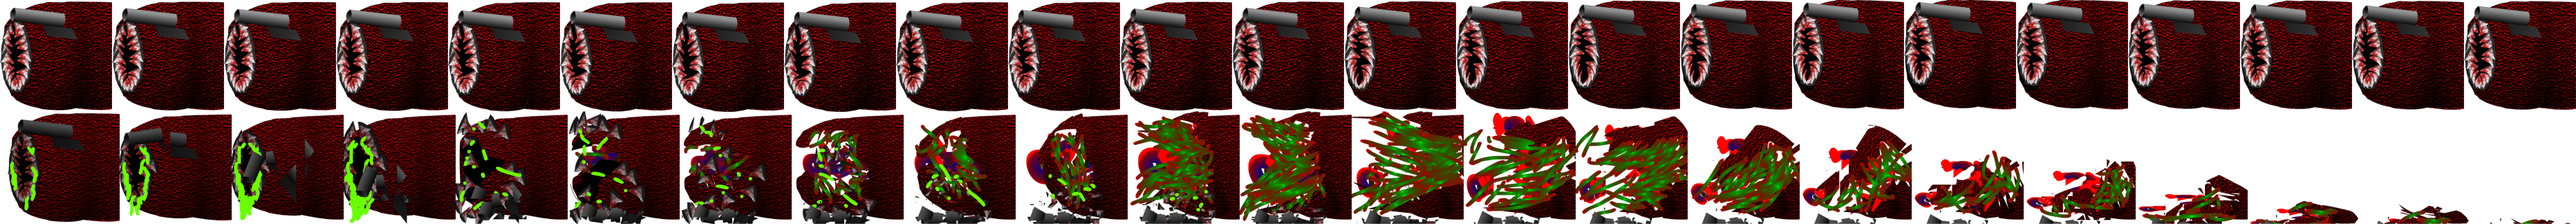
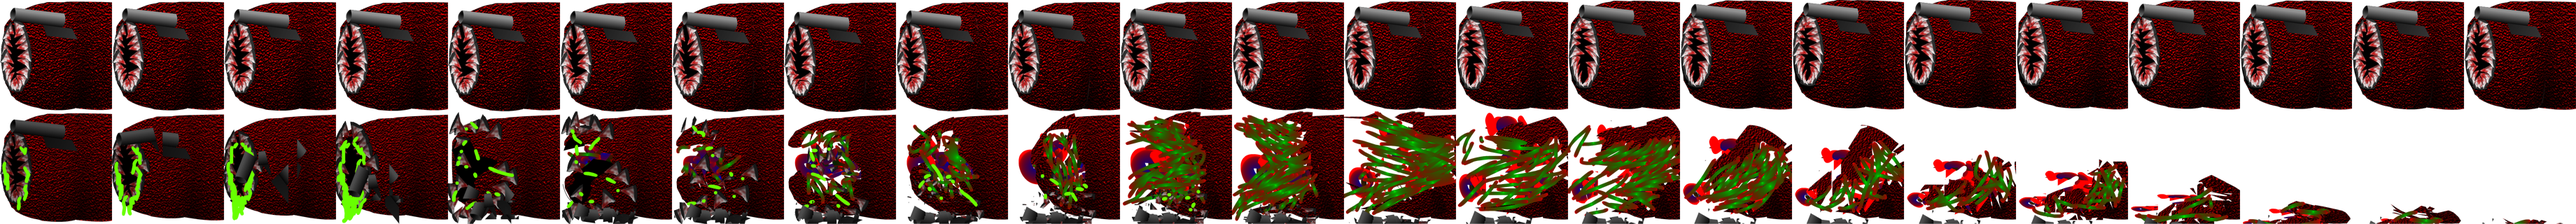
GAME IS DONE

Changed region(s): [[0.0, 0.5, 1.0, 1.0]]

diff --git a/MagnetBoy/MagnetBoy/MagnetBoy/Boss.cs b/MagnetBoy/MagnetBoy/MagnetBoy/Boss.cs
@@ -30,6 +30,8 @@ namespace MagnetBoy
         private double interval = 500;
         private double timeSinceLastShot = 0.0;
 
+        private double deathTimer = 0.0;
+
         public int bossHealth = 0;
 
         public Boss()
@@ -57,102 +59,128 @@ namespace MagnetBoy
 
             pole = Polarity.Neutral;
 
-            bossHealth = 15;
+            bossHealth = 1;
 
             solid = true;
+
+            deathTimer = 0.0;
         }
 
         public override void update(GameTime currentTime)
         {
             timeSinceLastShot += currentTime.ElapsedGameTime.Milliseconds;
 
-            if (timeSinceLastShot > interval)
+            if (deathAnimation == true)
             {
-                float direction = 0.0f;
-
-                direction += (float)(-0.75 * Math.PI);
-
-                Vector2 bulletPosition = Position;
-
-                bulletPosition.Y += 4;
-
-                if (Game1.gameRandom.Next() % 7 == 0)
+                if (deathAnimationSet == false)
                 {
-                    BulletPool.pushBullet(Heart, bulletPosition.X, bulletPosition.Y, currentTime, direction);
+                    lastFrameIncrement = 0.0;
+                    currentFrame = 0;
+                    currentAnimation = "wopleyDie";
+                    deathAnimationSet = true;
                 }
 
-                if (Game1.gameRandom.Next() % 6 == 0)
+                if (deathTimer > 500)
                 {
-                    BulletPool.pushBullet(Brain, bulletPosition.X, bulletPosition.Y, currentTime, direction);
+                    removeFromGame = true;
+                    deathAnimationSet = false;
+                    deathTimer = 0.0f;
                 }
-
-                if (Game1.gameRandom.Next() % 8 == 0)
+                else
                 {
-                    BulletPool.pushBullet(Lung, bulletPosition.X, bulletPosition.Y, currentTime, direction);
+                    deathTimer += currentTime.ElapsedGameTime.Milliseconds;
                 }
-
-                if (Game1.gameRandom.Next() % 15 == 0)
-                {
-                    BulletPool.pushBullet(healthItem, bulletPosition.X, bulletPosition.Y, currentTime, direction);
-                }
-
-                timeSinceLastShot = 0;
             }
-
-            foreach (Entity en in Entity.globalEntityList)
+            else
             {
-                if (en is Player)
+                if (timeSinceLastShot > interval)
                 {
-                    if (hitTest(en))
+                    float direction = 0.0f;
+
+                    direction += (float)(-0.75 * Math.PI);
+
+                    Vector2 bulletPosition = Position;
+
+                    bulletPosition.Y += 4;
+
+                    if (Game1.gameRandom.Next() % 7 == 0)
                     {
-                        if (!(!en.onTheGround && en.velocity.Y > 0.001f && en.Position.Y < vertical_pos))
+                        BulletPool.pushBullet(Heart, bulletPosition.X, bulletPosition.Y, currentTime, direction);
+                    }
+
+                    if (Game1.gameRandom.Next() % 6 == 0)
+                    {
+                        BulletPool.pushBullet(Brain, bulletPosition.X, bulletPosition.Y, currentTime, direction);
+                    }
+
+                    if (Game1.gameRandom.Next() % 8 == 0)
+                    {
+                        BulletPool.pushBullet(Lung, bulletPosition.X, bulletPosition.Y, currentTime, direction);
+                    }
+
+                    if (Game1.gameRandom.Next() % 15 == 0)
+                    {
+                        BulletPool.pushBullet(healthItem, bulletPosition.X, bulletPosition.Y, currentTime, direction);
+                    }
+
+                    timeSinceLastShot = 0;
+                }
+
+                foreach (Entity en in Entity.globalEntityList)
+                {
+                    if (en is Player)
+                    {
+                        if (hitTest(en))
                         {
-                            if (en.Position.X - Position.X < 0)
+                            if (!(!en.onTheGround && en.velocity.Y > 0.001f && en.Position.Y < vertical_pos))
                             {
-                                ((Player)en).knockBack(new Vector2(-1, -5), currentTime.TotalGameTime.TotalMilliseconds);
-                            }
-                            else
-                            {
-                                ((Player)en).knockBack(new Vector2(1, -5), currentTime.TotalGameTime.TotalMilliseconds);
+                                if (en.Position.X - Position.X < 0)
+                                {
+                                    ((Player)en).knockBack(new Vector2(-1, -5), currentTime.TotalGameTime.TotalMilliseconds);
+                                }
+                                else
+                                {
+                                    ((Player)en).knockBack(new Vector2(1, -5), currentTime.TotalGameTime.TotalMilliseconds);
+                                }
                             }
                         }
                     }
-                }
 
-                if (en is Bullet)
-                {
-                    if (hitTest(en))
+                    if (en is Bullet)
                     {
-                        if (((Bullet)en).velocity.X > 0)
+                        if (hitTest(en))
                         {
-                            if (((Bullet)en).bulletUsed == false)
+                            if (((Bullet)en).velocity.X > 0)
                             {
-                                bossHealth -= 1;
-                                ((Bullet)en).bulletUsed = true;
+                                if (((Bullet)en).bulletUsed == false)
+                                {
+                                    bossHealth -= 1;
+                                    ((Bullet)en).bulletUsed = true;
+                                }
+                                ((Bullet)en).deathAnimationSet = true;
+                                ((Bullet)en).velocity.X = 0;
+                                ((Bullet)en).velocity.Y = 0;
+                                ((Bullet)en).acceleration.Y = 0;
+                                ((Bullet)en).maxLifeTime = 0;
+                                break;
                             }
-                            ((Bullet)en).deathAnimationSet = true;
-                            ((Bullet)en).velocity.X = 0;
-                            ((Bullet)en).velocity.Y = 0;
-                            ((Bullet)en).acceleration.Y = 0;
-                            ((Bullet)en).maxLifeTime = 0;
-                            break;
                         }
                     }
+
                 }
 
-            }
-
-            if (bossHealth == 0)
-            {
-                LevelState.setFlag(LevelState.FlagColor.Blue, true);
-                removeFromGame = true;
-                bossShield.shieldHealth = 0;
-                death();
-            }
-            // if the last frame time hasn't been set, set it now
-            if (lastFrameIncrement == 0)
-            {
-                lastFrameIncrement = currentTime.TotalGameTime.TotalMilliseconds;
+                if (bossHealth == 0)
+                {
+                    LevelState.setFlag(LevelState.FlagColor.Blue, true);
+                    bossShield.shieldHealth = 0;
+                    deathAnimation = true;
+                    AudioFactory.playSFX("sfx/wopleyDeath");
+                }
+                // if the last frame time hasn't been set, set it now
+                if (lastFrameIncrement == 0)
+                {
+                    lastFrameIncrement = currentTime.TotalGameTime.TotalMilliseconds;
+                }
             }
 
             // update the current frame if needed
@@ -162,8 +190,6 @@ namespace MagnetBoy
 
                 currentFrame = (currentFrame + 1) % AnimationFactory.getAnimationFrameCount(currentAnimation);
             }
-
-            return;
         }
 
         public override void draw(SpriteBatch sb)
@@ -171,40 +197,6 @@ namespace MagnetBoy
             AnimationFactory.drawAnimationFrame(sb, currentAnimation, currentFrame, Position, AnimationFactory.DepthLayer1);
 
             return;
-        }
-
-        private void walk(GameTime currentTime)
-        {
-            if (walkSwitchTimer == 0)
-            {
-                walkSwitchTimer = currentTime.TotalGameTime.TotalMilliseconds;
-            }
-
-            if (onTheGround)
-            {
-                if (Math.Abs(velocity.X) < 0.01f)
-                {
-                    walkingLeft = !walkingLeft;
-                }
-
-                if (walkingLeft && velocity.X > -walkerSpeed)
-                {
-                    acceleration.X = -0.001f;
-                }
-                else if (velocity.X < walkerSpeed)
-                {
-                    acceleration.X = 0.001f;
-                }
-                else if (velocity.X < -walkerSpeed)
-                {
-                    velocity.X = -walkerSpeed;
-                }
-                else if (velocity.X > walkerSpeed)
-                {
-                    velocity.X = walkerSpeed;
-
-                }
-            }
         }
     }
 
